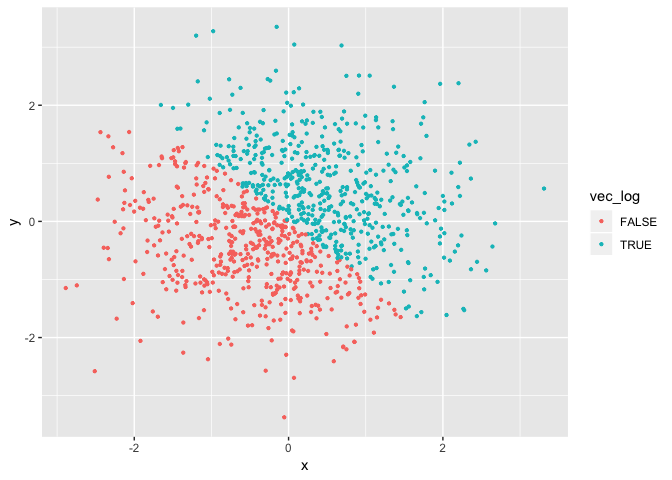
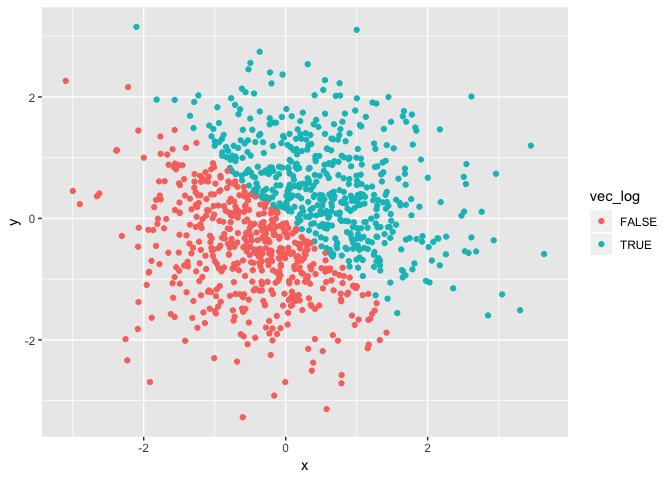
change the point size

diff --git a/p8105_hw1_hx2263.md b/p8105_hw1_hx2263.md
@@ -19,28 +19,28 @@ df_1
     ## # A tibble: 10 x 4
     ##    random_samp vec_logical vec_char vec_factor
     ##          <dbl> <lgl>       <chr>    <fct>     
-    ##  1      1.68   FALSE       X1       male      
-    ##  2      1.75   FALSE       X2       male      
-    ##  3      0.952  FALSE       X3       female    
-    ##  4      0.662  FALSE       X4       female    
-    ##  5      0.428  FALSE       X5       male      
-    ##  6      0.0233 FALSE       X6       female    
-    ##  7      3.36   TRUE        X7       female    
-    ##  8      2.19   TRUE        X8       male      
-    ##  9      4.90   TRUE        X9       female    
-    ## 10      1.41   FALSE       X10      male
+    ##  1       4.11  TRUE        X1       male      
+    ##  2       3.16  TRUE        X2       male      
+    ##  3       2.99  TRUE        X3       female    
+    ##  4       3.91  TRUE        X4       female    
+    ##  5       0.856 FALSE       X5       male      
+    ##  6       0.321 FALSE       X6       female    
+    ##  7       0.431 FALSE       X7       female    
+    ##  8       3.62  TRUE        X8       male      
+    ##  9       3.78  TRUE        X9       female    
+    ## 10       0.400 FALSE       X10      male
 
 ``` r
 mean(df_1$random_samp)
 ```
 
-    ## [1] 1.735442
+    ## [1] 2.356986
 
 ``` r
 mean(df_1$vec_logical)
 ```
 
-    ## [1] 0.3
+    ## [1] 0.6
 
 ``` r
 mean(df_1$vec_char)
@@ -125,7 +125,7 @@ df_4 = tibble(
 
 #Make scatterplot of y vs x, color points using the logical variable
 #red stands for FLASE in vec_log, blue stands for TRUE in vec_log
-ggplot(df_4, aes(x = x, y = y, color = vec_log)) + geom_point(size = 0.8)
+ggplot(df_4, aes(x = x, y = y, color = vec_log)) + geom_point()
 ```
 
 ![](p8105_hw1_hx2263_files/figure-markdown_github/plot_df-1.png)
@@ -135,7 +135,7 @@ ggsave("scatter_plot_1.pdf", height = 4, width = 6)
 
 #scatterplot that color points using the numeric variables
 #dark blue stands for value 0, light blue stands for 1 in vec_num which is TRUE in vec_log
-ggplot(df_4, aes(x = x, y = y, color = vec_num)) + geom_point(size = 0.8)
+ggplot(df_4, aes(x = x, y = y, color = vec_num)) + geom_point()
 ```
 
 ![](p8105_hw1_hx2263_files/figure-markdown_github/plot_df-2.png)
@@ -143,7 +143,7 @@ ggplot(df_4, aes(x = x, y = y, color = vec_num)) + geom_point(size = 0.8)
 ``` r
 #scatterplot that color points using the factor variables
 #red stands for FLASE in vec_fac, blue stands for TRUE in vec_fac
-ggplot(df_4, aes(x = x, y = y, color = vec_fac)) + geom_point(size = 0.8)
+ggplot(df_4, aes(x = x, y = y, color = vec_fac)) + geom_point()
 ```
 
-![](p8105_hw1_hx2263_files/figure-markdown_github/plot_df-3.png) Description: The newly created dataset has 5 columns and 1000 rows. The mean of random sample x is -0.0161984 and the median of x is -0.0234859. The proportion of cases for which the logical vector is TRUE is 0.513
+![](p8105_hw1_hx2263_files/figure-markdown_github/plot_df-3.png) Description: The newly created dataset has 5 columns and 1000 rows. The mean of random sample x is 0.0360319 and the median of x is 0.0107187. The proportion of cases for which the logical vector is TRUE is 0.501
